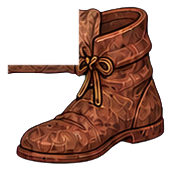
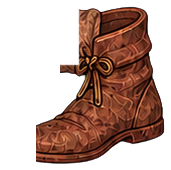
fix movement'

Changed region(s): [[0.0292, 0.3529, 0.3509, 0.4412], [0.0877, 0.7353, 0.2339, 0.9706]]

diff --git a/index.html b/index.html
@@ -35,6 +35,6 @@
 </head>
 <body>
 <canvas id="game" aria-label="Longbow typing defense game"></canvas>
-<script type="module" src="./src/gameApp.mjs?v=9"></script>
+<script type="module" src="./src/gameApp.mjs?v=12"></script>
 </body>
 </html>